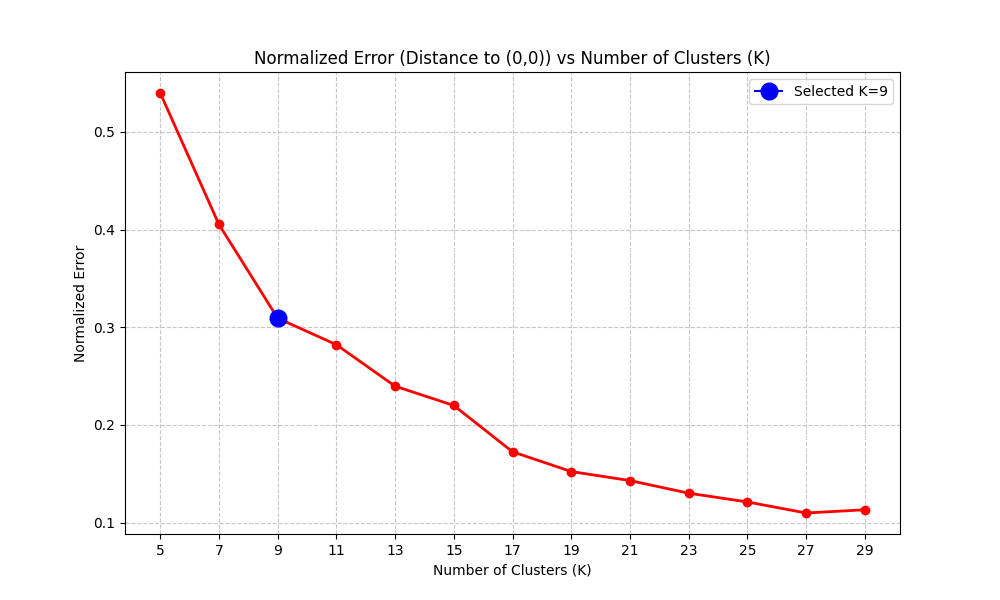
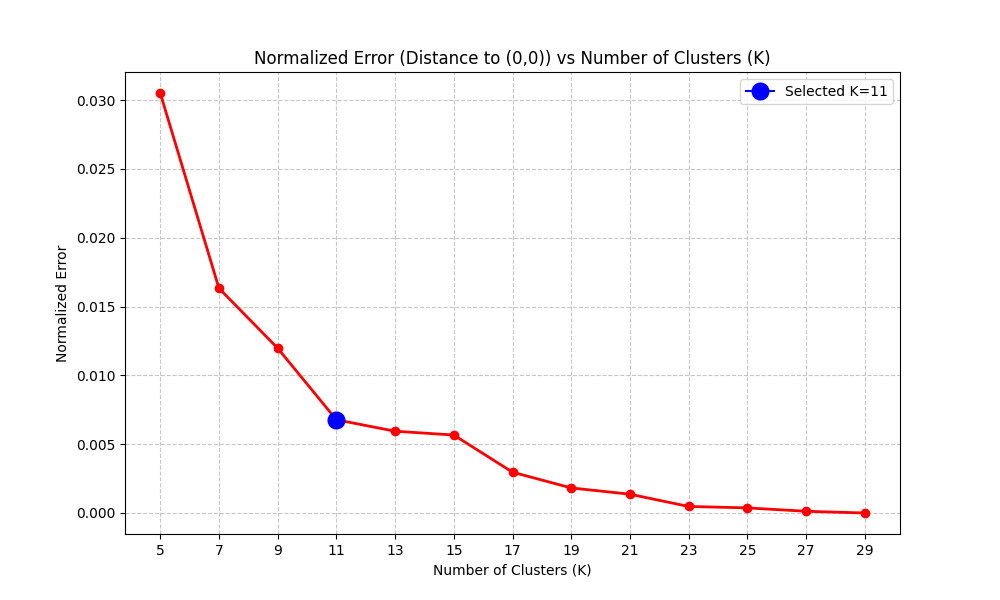
check best params for weighted mse on provins and saint arnoult

diff --git a/clustering_ideas/check_hp_similaritymeasure_shortestpath.py b/clustering_ideas/check_hp_similaritymeasure_shortestpath.py
@@ -17,13 +17,13 @@ STEP_K = 2
 MAX_ITERS = 50
 print("Configuration set")
 
-CSV_PATH = 'clustering_ideas\\ingolstadt_custom_clustering\\ingolstadt_custom_agents_coords.csv'
+CSV_PATH = 'clustering_ideas\\saint_arnoult_clustering\\saint_arnoult_agents_coords.csv'
 print("csv")
-JSON_PATH = 'clustering_ideas\\ingolstadt_custom_clustering\\shortest_path_metric_matrix.json'
+JSON_PATH = 'clustering_ideas\\saint_arnoult_clustering\\shortest_path_metric_matrix.json'
 print("json")
-PLOT_K_PATH = 'clustering_ideas\\ingolstadt_custom_clustering\\auto_elbow_k_similaritymeasure_sp_plot.png'
+PLOT_K_PATH = 'clustering_ideas\\saint_arnoult_clustering\\auto_elbow_k_similaritymeasure_sp_plot.png'
 print("k plot")
-PLOT_W_PATH = 'clustering_ideas\\ingolstadt_custom_clustering\\auto_weights_similaritymeasure_sp_plot.png'
+PLOT_W_PATH = 'clustering_ideas\\saint_arnoult_clustering\\auto_weights_similaritymeasure_sp_plot.png'
 print("paths set")
 
 def find_optimal_k(k_values, error_values):
@@ -149,7 +149,6 @@ df_results['t_norm'] = (df_results['t_mse'] - t_min) / t_range
 
 # Calculate distance to (0,0) for each combination of K and weights
 df_results['dist_to_origin'] = np.sqrt(df_results['sw'] * (df_results['s_norm'])**2 + df_results['tw'] * (df_results['t_norm'])**2)
-
 # For each K, find the weights that gave the smallest distance to (0,0)
 best_per_k_idx = df_results.groupby('k')['dist_to_origin'].idxmin()
 best_per_k = df_results.loc[best_per_k_idx].sort_values('k').reset_index(drop=True)

diff --git a/clustering_ideas/check_hp_similaritymeasure.py b/clustering_ideas/check_hp_similaritymeasure.py
@@ -17,10 +17,10 @@ STEP_K = 2
 MAX_ITERS = 50
 print("Configuration set")
 
-CSV_PATH = 'clustering_ideas\\ingolstadt_custom_clustering\\ingolstadt_custom_agents_coords.csv'
-PLOT_K_PATH = 'clustering_ideas\\ingolstadt_custom_clustering\\auto_elbow_k_similaritymeasure_plot.png'
+CSV_PATH = 'clustering_ideas\\saint_arnoult_clustering\\saint_arnoult_agents_coords.csv'
+PLOT_K_PATH = 'clustering_ideas\\saint_arnoult_clustering\\auto_elbow_k_similaritymeasure_plot.png'
 print("k plot")
-PLOT_W_PATH = 'clustering_ideas\\ingolstadt_custom_clustering\\auto_weights_similaritymeasure_plot.png'
+PLOT_W_PATH = 'clustering_ideas\\saint_arnoult_clustering\\auto_weights_similaritymeasure_plot.png'
 print("paths set")
 print("Paths set")
 
@@ -166,7 +166,6 @@ df_results['t_norm'] = (df_results['t_mse'] - t_min) / t_range
 
 # Calculate distance to (0,0) for each combination of K and weights
 df_results['dist_to_origin'] = np.sqrt(df_results['sw'] * (df_results['s_norm'])**2 + df_results['tw'] * (df_results['t_norm'])**2)
-
 
 # For each K, find the weights that gave the smallest distance to (0,0)
 best_per_k_idx = df_results.groupby('k')['dist_to_origin'].idxmin()

diff --git a/clustering_ideas/check_hp_kprototypes_shortestpath.py b/clustering_ideas/check_hp_kprototypes_shortestpath.py
@@ -18,10 +18,10 @@ STEP_K = 2
 MAX_ITERS = 50
 print("Configuration set")
 
-CSV_PATH = 'clustering_ideas\\ingolstadt_custom_clustering\\ingolstadt_custom_agents_coords.csv'
-JSON_PATH = 'clustering_ideas\\ingolstadt_custom_clustering\\shortest_path_metric_matrix.json'
-PLOT_K_PATH = 'clustering_ideas\\ingolstadt_custom_clustering\\auto_elbow_kprototypes_sp_plot.png'
-PLOT_W_PATH = 'clustering_ideas\\ingolstadt_custom_clustering\\auto_weights_kprototypes_sp_plot.png'
+CSV_PATH = 'clustering_ideas\\saint_arnoult_clustering\\saint_arnoult_agents_coords.csv'
+JSON_PATH = 'clustering_ideas\\saint_arnoult_clustering\\shortest_path_metric_matrix.json'
+PLOT_K_PATH = 'clustering_ideas\\saint_arnoult_clustering\\auto_elbow_kprototypes_sp_plot.png'
+PLOT_W_PATH = 'clustering_ideas\\saint_arnoult_clustering\\auto_weights_kprototypes_sp_plot.png'
 print("Paths set")
 
 def find_optimal_k(k_values, error_values):

diff --git a/clustering_ideas/check_hp_kprototypes.py b/clustering_ideas/check_hp_kprototypes.py
@@ -19,11 +19,11 @@ STEP_K = 2
 MAX_ITERS = 50
 print("Configuration set")
 
-CSV_PATH = 'clustering_ideas\\ingolstadt_custom_clustering\\ingolstadt_custom_agents_coords.csv'
+CSV_PATH = 'clustering_ideas\\saint_arnoult_clustering\\saint_arnoult_agents_coords.csv'
 print('csv')
-PLOT_K_PATH = 'clustering_ideas\\ingolstadt_custom_clustering\\auto_elbow_kprototypes_plot.png'
+PLOT_K_PATH = 'clustering_ideas\\saint_arnoult_clustering\\auto_elbow_kprototypes_plot.png'
 print('plot k')
-PLOT_W_PATH = 'clustering_ideas\\ingolstadt_custom_clustering\\auto_weights_kprototypes_plot.png'
+PLOT_W_PATH = 'clustering_ideas\\saint_arnoult_clustering\\auto_weights_kprototypes_plot.png'
 print('plot w')
 print("Paths set")
 

diff --git a/clustering_ideas/best_hiperparameters.md b/clustering_ideas/best_hiperparameters.md
@@ -60,16 +60,16 @@
 
 | Miasto | `num_clusters` (K) | `TIME_WEIGHT` | `SPACE_WEIGHT` |
 | --- | --- | --- | --- |
-| **Provins** |  |  |  |
-| **Saint Arnoult** |  |  |  |
+| **Provins** | 11 | 1.0 | 0.0 |
+| **Saint Arnoult** | 11 | 1.0 | 0.0 |
 | **Ingolstadt** | 11 | 1.0 | 0.0 |
 
 ### Similarity Measure (K-Medoids)
 
 | Miasto | `num_clusters` (K) | `TIME_WEIGHT` | `SPACE_WEIGHT` |
 | --- | --- | --- | --- |
-| **Provins** |  |  |  |
-| **Saint Arnoult** |  |  |  |
+| **Provins** | 13 | 1.0 | 0.0 |
+| **Saint Arnoult** | 11 | 1.0 | 0.0 |
 | **Ingolstadt** | 9 | 1.0 | 0.0 |
 
 ---
@@ -80,16 +80,16 @@
 
 | Miasto | `num_clusters` (K) | `TIME_WEIGHT` | `SPACE_WEIGHT` |
 | --- | --- | --- | --- |
-| **Provins** |  |  |  |
-| **Saint Arnoult** |  |  |  |
+| **Provins** | 11 | 1.0 | 0.0 |
+| **Saint Arnoult** | 11 | 1.0 | 0.0 |
 | **Ingolstadt** | 11 | 1.0 | 0.0 |
 
 ### Similarity Measure (K-Medoids)
 
 | Miasto | `num_clusters` (K) | `TIME_WEIGHT` | `SPACE_WEIGHT` |
 | --- | --- | --- | --- |
-| **Provins** |  |  |  |
-| **Saint Arnoult** |  |  |  |
+| **Provins** | 13 | 1.0 | 0.0 |
+| **Saint Arnoult** | 11 | 1.0 | 0.0 |
 | **Ingolstadt** | 9 | 1.0 | 1.0 |
 
 ### Spatial (Przestrzenne)
